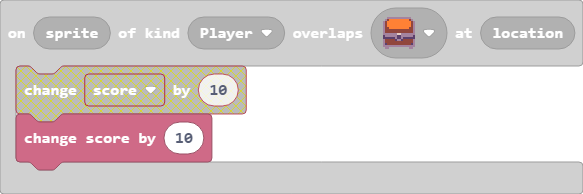
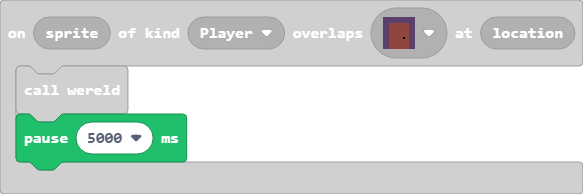
Update main.blocks, main.ts

Changed region(s): [[0.0, 0.3093, 0.4322, 0.8969], [0.6484, 0.0619, 0.7101, 0.2784]]

diff --git a/main.ts b/main.ts
@@ -12,6 +12,7 @@ scene.onOverlapTile(SpriteKind.Player, assets.tile`tile43`, function (sprite, lo
 })
 scene.onOverlapTile(SpriteKind.Player, assets.tile`tile41`, function (sprite, location) {
     wereld()
+    pause(5000)
 })
 let mySprite = sprites.create(img`
     . . . . . . f f f f . . . . . . 
